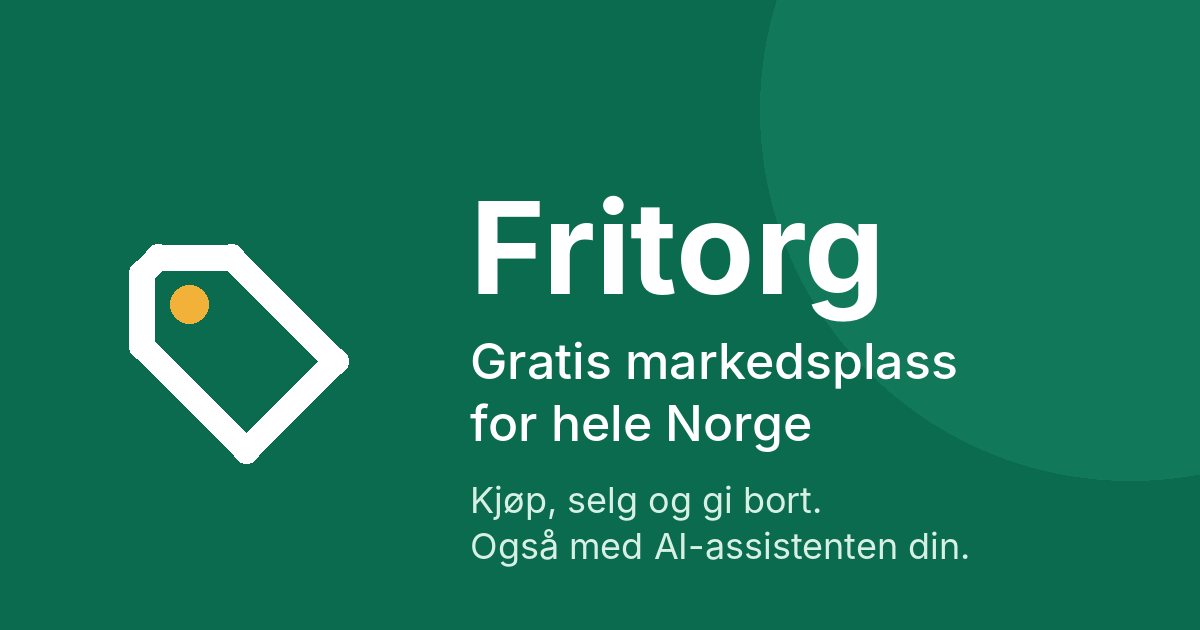
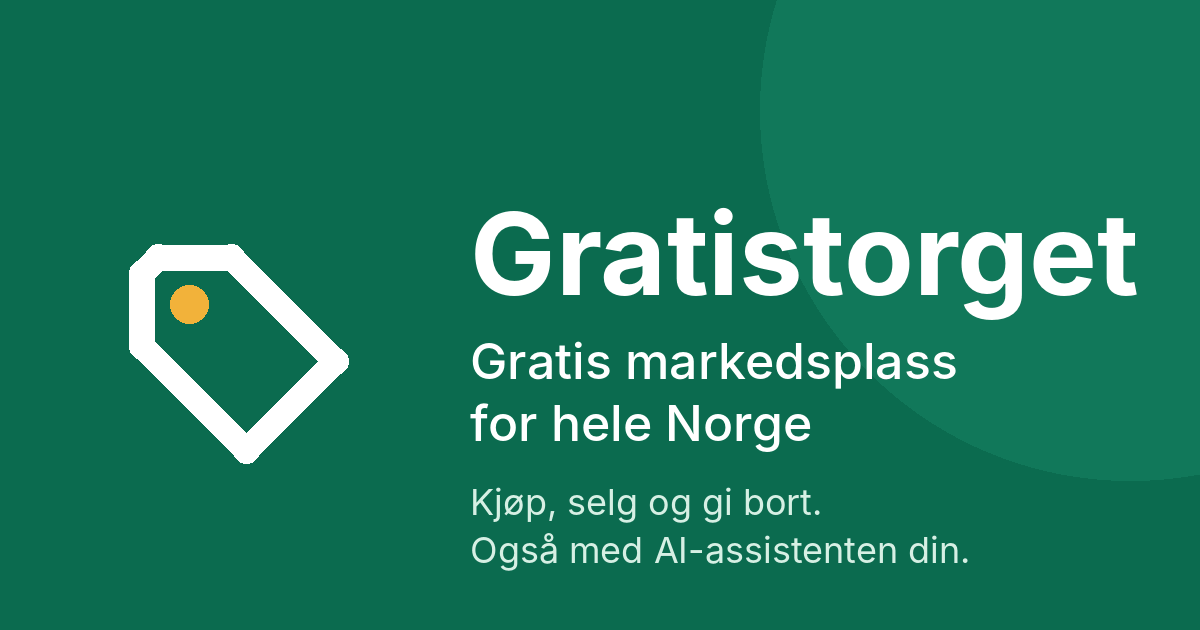
Rename the site to Gratistorget (gratistorget.no)
Every name people and agents see comes from FRITORG_SITE_NAME, now
Gratistorget by default: pages, e-mail, SMS, the API description, MCP
instructions and server name, robots.txt, structured data and the job
importers' user agent. Fraud warnings say "the marketplace" instead of a
name. The sharing image is redrawn, examples use gratistorget.no, and the
name is reserved so nobody can call themselves Gratistorget.

An SMS sender name can have at most 11 characters, one fewer than
Gratistorget, so the example uses Gratistorg and fritorg doctor flags a
sender that is too long. The code, commands and settings keep the name
fritorg.

Claude-Session: https://claude.ai/code/session_01P1ECeUFyTv5Trttj1TeEgc

Changed region(s): [[0.37, 0.3016, 0.9558, 0.5127], [0.37, 0.754, 0.8017, 0.9048]]

diff --git a/fritorg/fritorg/templates/my_page.html b/fritorg/fritorg/templates/my_page.html
@@ -73,12 +73,12 @@
     <p><strong>Ny nøkkel laget. Kopier den nå – den vises bare én gang.</strong></p>
     <pre><code>{{ new_token }}</code></pre>
     <h3>Claude Code</h3>
-    <pre><code>claude mcp add --transport http fritorg {{ base }}/mcp --header "Authorization: Bearer {{ new_token }}"</code></pre>
+    <pre><code>claude mcp add --transport http {{ site_id }} {{ base }}/mcp --header "Authorization: Bearer {{ new_token }}"</code></pre>
     <h3>Claude.ai, ChatGPT og andre apper med «egendefinert connector»</h3>
     <p>Lim inn denne personlige adressen. Den fungerer som et passord, så ikke del den.</p>
     <pre><code>{{ base }}/mcp/{{ new_token }}</code></pre>
     <h3>Cursor, VS Code og andre MCP-klienter (JSON)</h3>
-    <pre><code>{"mcpServers": {"fritorg": {"url": "{{ base }}/mcp", "headers": {"Authorization": "Bearer {{ new_token }}"}}}}</code></pre>
+    <pre><code>{"mcpServers": {"{{ site_id }}": {"url": "{{ base }}/mcp", "headers": {"Authorization": "Bearer {{ new_token }}"}}}}</code></pre>
     <h3>REST-API</h3>
     <pre><code>curl -H "Authorization: Bearer {{ new_token }}" {{ base }}/api/v1/me</code></pre>
   </div>

diff --git a/fritorg/fritorg/static/style.css b/fritorg/fritorg/static/style.css
@@ -1,4 +1,4 @@
-/* Fritorg – one small stylesheet, no frameworks, no JavaScript needed. */
+/* Gratistorget – one small stylesheet, no frameworks, no JavaScript needed. */
 
 :root {
   --bg: #f5f6f2;

diff --git a/fritorg/fritorg/mcp_server.py b/fritorg/fritorg/mcp_server.py
@@ -305,7 +305,7 @@ def _verify_phone(ctx: ToolContext, args: dict[str, Any]) -> dict[str, Any]:
         raise ValidationProblem.field(
             "phone",
             "Oppgi mobilnummeret (phone) eller koden fra SMS-en (code).",
-            hint="Call with phone first; Fritorg sends a code by SMS. Then call again with code.",
+            hint="Call with phone first; we send a code by SMS. Then call again with code.",
         )
     sent = phone.start(
         ctx.conn,
@@ -809,7 +809,7 @@ TOOLS: list[Tool] = [
     Tool(
         "search_listings",
         "Search listings",
-        "Search Fritorg, a free Norwegian classifieds marketplace (goods, vehicles, property, jobs, services). "
+        "Search this free Norwegian classifieds marketplace (goods, vehicles, property, jobs, services). "
         "Returns compact results; call get_listing for full details. Text search matches substrings, so 'sofa' also "
         "finds 'hjørnesofa'. Prices are whole NOK.",
         {
@@ -1169,7 +1169,7 @@ TOOLS_BY_NAME = {tool.name: tool for tool in TOOLS}
 
 def instructions(base: str, user: users.User | None, settings: Settings) -> str:
     lines = [
-        f"Fritorg ({base}) is a free Norwegian classifieds marketplace, an open alternative to finn.no that "
+        f"{settings.site_name} ({base}) is a free Norwegian classifieds marketplace, an open alternative to finn.no that "
         "welcomes AI agents.",
         "Listings are written in Norwegian. Prices are whole Norwegian kroner (NOK).",
         "Start with search_listings, then get_listing for details. list_categories explains categories, listing "
@@ -1287,7 +1287,7 @@ class McpServer:
                     "protocolVersion": version,
                     "capabilities": {"tools": {"listChanged": False}},
                     "serverInfo": {
-                        "name": "fritorg",
+                        "name": self.settings.site_id,
                         "title": self.settings.site_name,
                         "version": __version__,
                         "websiteUrl": base,

diff --git a/fritorg/fritorg/fraud.py b/fritorg/fritorg/fraud.py
@@ -106,15 +106,15 @@ SIGNALS: dict[str, SignalInfo] = {
         SignalInfo(
             "offsite_contact",
             25,
-            "Ber om kontakt utenfor Fritorg (WhatsApp, Telegram e.l.).",
-            listing_warning="Annonsen ber om kontakt utenfor Fritorg. Hold samtalen her – da er det lettere å få hjelp hvis noe går galt.",
-            message_warning="Avsenderen vil fortsette samtalen utenfor Fritorg. Svindlere gjør ofte dette for å unngå sporing.",
+            "Ber om kontakt utenfor markedsplassen (WhatsApp, Telegram e.l.).",
+            listing_warning="Annonsen ber om kontakt utenfor markedsplassen. Hold samtalen her – da er det lettere å få hjelp hvis noe går galt.",
+            message_warning="Avsenderen vil fortsette samtalen utenfor markedsplassen. Svindlere gjør ofte dette for å unngå sporing.",
         ),
         SignalInfo(
             "contact_email",
             15,
             "Inneholder en e-postadresse.",
-            listing_warning="Annonsen inneholder en e-postadresse. Bruk gjerne meldingsfunksjonen på Fritorg i stedet.",
+            listing_warning="Annonsen inneholder en e-postadresse. Bruk gjerne meldingene her i stedet.",
         ),
         SignalInfo(
             "foreign_phone",
@@ -141,7 +141,7 @@ SIGNALS: dict[str, SignalInfo] = {
             "payment_link",
             60,
             "Inneholder en lenke om betaling eller frakt.",
-            message_warning="Dette ligner en falsk betalingslenke. Fritorg sender aldri betalingslenker, og du skal aldri oppgi kortnummer eller BankID for å motta penger.",
+            message_warning="Dette ligner en falsk betalingslenke. Vi sender aldri betalingslenker, og du skal aldri oppgi kortnummer eller BankID for å motta penger.",
         ),
         SignalInfo(
             "prohibited_item",

diff --git a/fritorg/fritorg/ops.py b/fritorg/fritorg/ops.py
@@ -121,14 +121,14 @@ def _check_backup(source: Path) -> None:
         finally:
             copy.close()
     except sqlite3.DatabaseError as exc:
-        raise RestoreProblem(f"{source} er ikke en database fra Fritorg ({exc}).") from None
+        raise RestoreProblem(f"{source} er ikke en sikkerhetskopi fra «fritorg backup» ({exc}).") from None
     if not {"users", "listings"} <= tables:
-        raise RestoreProblem(f"{source} er ikke en database fra Fritorg.")
+        raise RestoreProblem(f"{source} er ikke en sikkerhetskopi fra «fritorg backup».")
     if not healthy:
         raise RestoreProblem(f"{source} er skadet. Prøv en annen sikkerhetskopi.")
     if version > len(MIGRATIONS):
         raise RestoreProblem(
-            f"{source} er laget av en nyere versjon av Fritorg. Oppdater koden før du gjenoppretter den."
+            f"{source} er laget av en nyere versjon av programmet. Oppdater koden før du gjenoppretter den."
         )
     if _backup_time(source) < utcnow() - timedelta(days=DELETION_LOG_DAYS):
         raise RestoreProblem(
@@ -374,6 +374,15 @@ def _verification_checks(settings: Settings, test_sms_to: str | None) -> list[Ch
             f"{settings.sms_per_ip_per_hour} per IP-adresse per time",
         ),
     ]
+    sender_id = settings.twilio_from or ""
+    if settings.sms_provider == "twilio" and not sender_id.startswith("+") and len(sender_id) > 11:
+        checks.append(
+            Check(
+                False,
+                f"Avsendernavnet «{sender_id}» (FRITORG_TWILIO_FROM) er for langt: et navn som avsender på SMS kan "
+                "ha høyst 11 bokstaver og tall",
+            )
+        )
     if test_sms_to and sender is not None:
         try:
             number = phone.normalize_mobile(test_sms_to)

diff --git a/fritorg/fritorg/schemas.py b/fritorg/fritorg/schemas.py
@@ -85,7 +85,7 @@ class FeedSyncIn(BaseModel):
     model_config = ConfigDict(extra="forbid")
 
     listings: list[FeedItemIn] = Field(
-        description="Everything that should be on Fritorg for this feed (max 1000 per call)."
+        description="Everything that should be listed here for this feed (max 1000 per call)."
     )
     remove_missing: bool = Field(
         True, description="Delete this feed's listings that are not in `listings` (the usual full sync)."
@@ -112,7 +112,7 @@ class FeedSyncOut(BaseModel):
     removed: int
     failed: list[FeedFailureOut] = Field(description="Items that were not accepted, and why.")
     listings: list[FeedListingOut] = Field(
-        description="Fritorg listing id per item. Add photos with POST /api/v1/listings/{id}/images."
+        description="Our listing id per item. Add photos with POST /api/v1/listings/{id}/images."
     )
 
 
@@ -285,7 +285,7 @@ class ListingOut(ListingSummaryOut):
     images: list[ImageOut]
     seller: SellerOut
     safety_warnings: list[str] = Field(
-        description="Neutral warnings for buyers (e.g. the listing asks for contact outside Fritorg). Show them to your user."
+        description="Neutral warnings for buyers (e.g. the listing asks for contact outside the marketplace). Show them to your user."
     )
     moderation: ModerationOut | None = None
     views: int | None = Field(

diff --git a/fritorg/tests/test_pages.py b/fritorg/tests/test_pages.py
@@ -7,7 +7,7 @@ from conftest import PHOTO, make_listing, register, web_login
 
 def test_sharing_previews(client, auth):
     home = client.get("/").text
-    assert '<meta property="og:site_name" content="Fritorg">' in home
+    assert '<meta property="og:site_name" content="Gratistorget">' in home
     assert '<meta property="og:image" content="http://testserver/static/og.png">' in home
     assert client.get("/static/og.png").headers["content-type"] == "image/png"
 
@@ -32,7 +32,7 @@ def test_web_app_manifest(client):
     response = client.get("/manifest.webmanifest")
     assert response.headers["content-type"].startswith("application/manifest+json")
     manifest = response.json()
-    assert manifest["short_name"] == "Fritorg" and manifest["start_url"] == "/"
+    assert manifest["short_name"] == "Gratistorget" and manifest["start_url"] == "/"
     for icon in manifest["icons"]:
         assert client.get(icon["src"]).status_code == 200
     assert '<link rel="manifest" href="/manifest.webmanifest">' in client.get("/").text
@@ -114,7 +114,7 @@ def test_search_titles(client):
     }
     for url, title in cases.items():
         page = client.get(url).text
-        assert f"<title>{title} – Fritorg</title>" in page, url
+        assert f"<title>{title} – Gratistorget</title>" in page, url
 
 
 def test_share_button_is_an_extra(client, auth):

diff --git a/fritorg/fritorg/config.py b/fritorg/fritorg/config.py
@@ -3,6 +3,7 @@
 from __future__ import annotations
 
 import os
+import re
 from dataclasses import dataclass
 from pathlib import Path
 
@@ -30,9 +31,9 @@ class Settings:
     # Uploaded photos; by default data_dir/uploads. Its own folder lets a web server (Caddy in
     # deploy/) serve the photos without access to the database.
     uploads_path: Path | None = None
-    # Public base URL, e.g. "https://fritorg.no". When unset it is derived from each request.
+    # Public base URL, e.g. "https://gratistorget.no". When unset it is derived from each request.
     base_url: str | None = None
-    site_name: str = "Fritorg"
+    site_name: str = "Gratistorget"
     # Shown in the footer, terms and security.txt: who runs the site and how to reach them.
     contact_email: str | None = None
     operator: str | None = None
@@ -113,6 +114,12 @@ class Settings:
     max_image_bytes: int = 8 * 1024 * 1024
     max_images_per_listing: int = 12
     max_request_bytes: int = 64 * 1024 * 1024
+
+    @property
+    def site_id(self) -> str:
+        """The name as a short id, e.g. for an MCP server: "gratistorget"."""
+        name = self.site_name.casefold().replace("æ", "ae").replace("ø", "o").replace("å", "a")
+        return re.sub(r"[^a-z0-9]+", "-", name).strip("-") or "marketplace"
 
     @property
     def db_path(self) -> Path:

diff --git a/fritorg/fritorg/api.py b/fritorg/fritorg/api.py
@@ -673,7 +673,7 @@ def me(conn: Conn, user: CurrentUser, settings: SettingsDep) -> dict:
 def sync_feed(
     feed: str, body: FeedSyncIn, request: Request, conn: Conn, user: CurrentUser, settings: SettingsDep
 ) -> dict:
-    """For businesses: send everything that should be on Fritorg for one feed, each item with your own
+    """For businesses: send everything that should be listed here for one feed, each item with your own
     `external_id`. New items are created, changed ones updated, and (with `remove_missing`) items no longer
     in the list are deleted. Unchanged items are skipped, so repeat the same call as often as you like,
     e.g. every hour. Every sync keeps the listings active.
@@ -700,7 +700,7 @@ def delete_feed(feed: str, conn: Conn, user: CurrentUser, settings: SettingsDep)
 
 @router.get("/me/export", tags=["account"], summary="All your data (GDPR)")
 def export_my_data(request: Request, conn: Conn, user: CurrentUser) -> JSONResponse:
-    """Everything Fritorg stores about the account: profile, listings, conversations, tokens and reports."""
+    """Everything we store about the account: profile, listings, conversations, tokens and reports."""
     data = privacy.export_user(conn, user, base_url(request))
     return JSONResponse(data, headers={"Cache-Control": "no-store"})
 

diff --git a/fritorg/fritorg/discovery.py b/fritorg/fritorg/discovery.py
@@ -43,7 +43,13 @@ def render_doc(request: Request, name: str, **extra) -> str:
     """Render a Markdown document from templates/docs with the site's name and base URL."""
     settings = request.app.state.settings
     template = templates.env.get_template(f"docs/{name}")
-    return template.render(base=base_url(request), site_name=settings.site_name, settings=settings, **extra)
+    return template.render(
+        base=base_url(request),
+        site_name=settings.site_name,
+        site_id=settings.site_id,
+        settings=settings,
+        **extra,
+    )
 
 
 def category_reference(base: str) -> str:
@@ -94,7 +100,7 @@ def llms_full_txt(request: Request) -> PlainTextResponse:
 def robots_txt(request: Request) -> PlainTextResponse:
     base = base_url(request)
     lines = [
-        "# Fritorg welcomes search engines and AI agents. No API key needed for reading.",
+        f"# {request.app.state.settings.site_name} welcomes search engines and AI agents. No API key needed for reading.",
         f"# Prefer the API ({base}/openapi.json), MCP ({base}/mcp) or the bulk export",
         f"# ({base}/api/v1/export/listings.ndjson) over crawling HTML. Docs: {base}/llms.txt",
         "",

diff --git a/fritorg/tests/test_gdpr.py b/fritorg/tests/test_gdpr.py
@@ -114,7 +114,7 @@ def test_people_can_correct_their_name_and_report_their_own_data(client, auth, o
     web_login(client)
     client.post("/min-side/navn", data={"csrf_token": csrf(client), "name": "Kari N. Hansen"})
     assert client.get("/api/v1/me", headers=auth).json()["name"] == "Kari N. Hansen"
-    refused = client.post("/min-side/navn", data={"csrf_token": csrf(client), "name": "Fritorg kundeservice"})
+    refused = client.post("/min-side/navn", data={"csrf_token": csrf(client), "name": "Gratistorget"})
     assert "Velg et annet visningsnavn" in refused.text
     listing = make_listing(client, auth)
     report = {"reason": "privacy", "comment": "Bildet viser huset mitt."}
@@ -134,7 +134,7 @@ def test_closed_accounts_have_no_public_profile(app, client, auth):
 def test_apps_cannot_pose_as_the_site(client):
     registered = client.post(
         "/oauth/register",
-        json={"client_name": "Fritorg kundeservice", "redirect_uris": ["https://x.example/cb"]},
+        json={"client_name": "Gratis Torget", "redirect_uris": ["https://x.example/cb"]},
     ).json()
     assert registered["client_name"] == "Ukjent app"
 

diff --git a/fritorg/fritorg/web.py b/fritorg/fritorg/web.py
@@ -389,7 +389,9 @@ def listing_page(listing_id: int, request: Request, conn: Conn) -> Response:
             "response_time": None
             if listing.is_imported
             else messages.response_time_text(messages.response_time_hours(conn, listing.user_id)),
-            "jsonld": serializers.jsonld_script(serializers.listing_jsonld(listing, base)),
+            "jsonld": serializers.jsonld_script(
+                serializers.listing_jsonld(listing, base, request.app.state.settings.site_name)
+            ),
             "breadcrumbs_jsonld": serializers.jsonld_script(serializers.breadcrumbs_jsonld(listing, base)),
             "more_from_seller": [item for item in more if item.id != listing.id][:4],
             "similar": _similar(conn, listing),
@@ -1851,7 +1853,7 @@ DOCS = {
     "for-agenter": ("for-agenter.md", "For AI-agenter"),
     "for-bedrifter": ("for-bedrifter.md", "For bedrifter"),
     "trygg-handel": ("trygg-handel.md", "Trygg handel"),
-    "om": ("om.md", "Om Fritorg"),
+    "om": ("om.md", "Om oss"),
     "vilkar": ("vilkar.md", "Vilkår og personvern"),
 }
 
